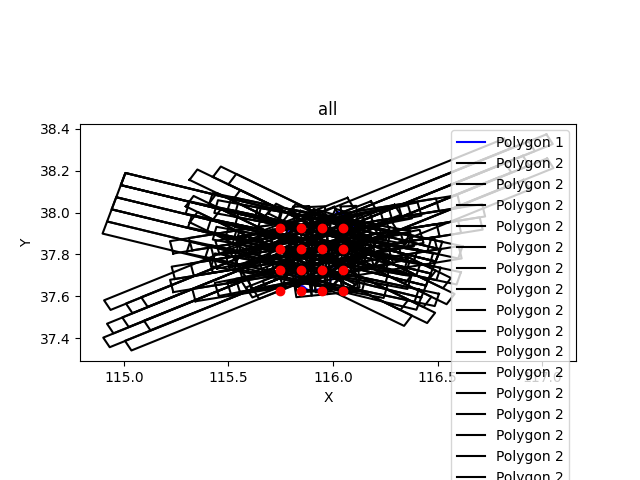
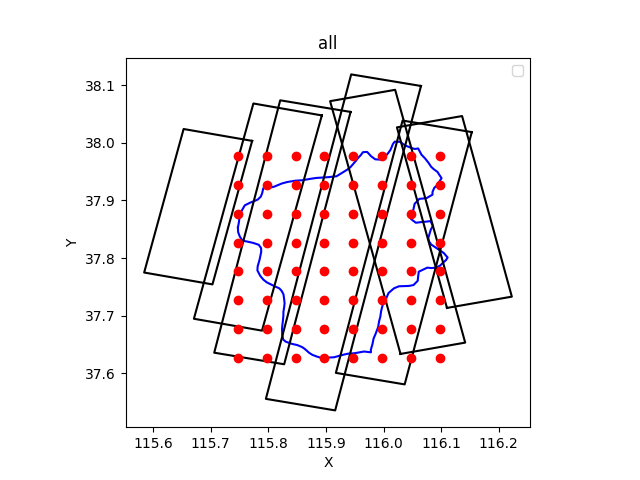
完成简单版本的区域拆分和任务选择

diff --git a/src/test/areaSplit.py b/src/test/areaSplit.py
@@ -7,6 +7,7 @@ import matplotlib.pyplot as plt
 from datetime import timedelta
 
 import gpkg_test
+import csv_test
 
 data_path = "../../data/"
 
@@ -29,13 +30,13 @@ def show_polygon_shape(polygon, name="Shapely Polygon"):
 def show_polygon_shape_2(polygon1, polygon2=None, point=None, name="Shapely Polygon"):
     x1, y1 = polygon1.exterior.xy
     plt.figure()
-    plt.plot(x1, y1, color='blue', label='Polygon 1')
+    plt.plot(x1, y1, color='blue')
 
     # 如果提供了第二个 Polygon，绘制它
     if polygon2 is not None:
         for i in polygon2:
             x2, y2 = i.exterior.xy
-            plt.plot(x2, y2, color='black', label='Polygon 2')
+            plt.plot(x2, y2, color='black')
 
     if point is not None:
         for i in point:
@@ -80,66 +81,143 @@ def seconds_to_time_str(seconds):
     return f"{hrs:02d}:{mins:02d}:{secs:02d}"
 
 
-def cmd_satellite_tools(satellite, area):
-    shape = area[3]
-    area_name = area[0]
-    # print(type(area[3]))
-    show_polygon_shape(area[3], area[0])
+# 返回前一个是否小于后一个
+def comp_sunlight(a, b):
+    aa = float(a)
+    bb = float(b)
+    return a < b
 
-    xx, yy = area[3].exterior.coords.xy
+
+# 在范围内返回true
+def comp_in_left_right_roll(a, left, right) -> bool:
+    aa = float(a)
+    ll = float(left)
+    rr = float(right)
+    return ll <= aa <= rr
+
+
+def cmd_satellite_tools_m3(m3json):
+    # print(m3json)
+    with open("./input/m3001.json", 'w') as f:
+        json.dump(m3json, f, indent=1)
+    command = "sattools.exe run -i m3001.json -m 3"
+    # 执行command命令
+    result = subprocess.run(command, shell=True, check=True)
+
+
+def cmd_satellite_tools(satellite, area):
+    area_shape = area[3]
+    area_name = area[0]
+
+    # show_polygon_shape(area_shape, area_name)
+
+    xx, yy = area_shape.exterior.coords.xy
     x, y = xx.tolist(), yy.tolist()
     x_left, x_right = min(x), max(x)
     y_button, y_top = min(y), max(y)
-    print(x_left, x_right, y_top, y_button)
-    dx, dy = 0.1, 0.1
+    # print(x_left, x_right, y_top, y_button)
+    dx, dy = 0.05, 0.05
     # [Point(longitude , latitudes) ]
     point_list = [shapely.Point(min(x_left + dx * i, x_right), min(y_button + dy * j, y_top))
                   for i in range(math.ceil((x_right - x_left) / dx))
                   for j in range(math.ceil((y_top - y_button) / dy))]
 
-    # print(point_list)
-    # print(len(point_list))
-    show_polygon_with_point(area[3], point_list, area[0] + ' with point')
+    # show_polygon_with_point(area_shape, point_list, area[0] + ' with point')
+    # 调用计算工具模式2
     m2json = dict()
     m2json['point_longitudes'] = []
     m2json['point_latitudes'] = []
 
-    # m3json = dict()
-    # m3json['satellite_id'] = "1"
-    # m3json['start_time'] = ""
-    # m3json['end_time'] = ""
-    # m3json['roll_angle'] = 0
+    # 调用计算工具模式3
+    m3json = dict()
+    m3json['satellite_id'] = "1"
+    m3json['start_time'] = ""
+    m3json['end_time'] = ""
+    m3json['roll_angle'] = 0
 
     for i in point_list:
-        if i.within(area[3]):
+        if i.within(area_shape):
             # 当前点位于多边形内部
             m2json['point_longitudes'].append(i.x)
             m2json['point_latitudes'].append(i.y)
             pass
-
+    satellite_data, mp_name2id = csv_test.get_satellite_csv()
     GeoDataFrames = []
     cur_path = os.getcwd()
     os.chdir("../../")
     flag = False
     for i in satellite:
+        getSatellite = gpkg_test.get_satellite_gpkg(i, './data/satellite')
+
         m2json['satellite_id'] = i
-        # m3json['satellite_id'] = i
+        m3json['satellite_id'] = i
         set_name = "set001"
-        print()
         if os.path.exists("./output/" + set_name + "_" + area_name + "_" + i + ".gpkg"):
             flag = True
-            tmp_list = []
             tmp_time_list = []
             getGeoDataFrame = gpkg_test.get_output_gpkg(set_name + "_" + area_name + "_" + i, "./output")
+            getGeoDataFrame = getGeoDataFrame.sort_values(by='time')
+            left = right = -1
+            roll_angle_ = 0
+            roll_angle_cnt = 0
             for idx in range(len(getGeoDataFrame)):
-                GeoDataFrames.append(getGeoDataFrame.iloc[idx].geometry)
-                tmp_time_list.append([getGeoDataFrame.iloc[idx].time, getGeoDataFrame.iloc[idx].roll_angle,
-                                      getGeoDataFrame.iloc[idx].sun_elevation_angle])
-                tmp_list.append(getGeoDataFrame.iloc[idx].geometry)
-            show_polygon_shape_2(area[3], tmp_list, point_list, set_name + "_" + area_name + "_" + i)
-            print(set_name + "_" + area_name + "_" + i + ":")
-            for tmpTime in tmp_time_list:
-                print(tmpTime)
+                # 判断太阳高度角是否满足角度
+                # print(i, getSatellite.iloc[getGeoDataFrame.iloc[idx].time].sun_elevation_angle,
+                #       satellite_data.iloc[mp_name2id[i]].sunlight)
+                if comp_sunlight(getSatellite.iloc[getGeoDataFrame.iloc[idx].time].sun_elevation_angle,
+                                 satellite_data.iloc[mp_name2id[i]].sunlight):
+                    continue
+                # print(i, getGeoDataFrame.iloc[idx].roll_angle,
+                #       satellite_data.iloc[mp_name2id[i]].left_roll, satellite_data.iloc[mp_name2id[i]].right_roll)
+                # 判断侧摆角是否在范围内
+                if not comp_in_left_right_roll(getGeoDataFrame.iloc[idx].roll_angle,
+                                               satellite_data.iloc[mp_name2id[i]].left_roll,
+                                               satellite_data.iloc[mp_name2id[i]].right_roll):
+                    continue
+
+                # 查找连续的时间序列区间 设置时间序列
+                cur = int(getGeoDataFrame.iloc[idx].time)
+                if left == -1 and right == -1:
+                    left = right = cur
+
+                if cur >= right + 100:
+                    tmp_time_list.append([left, right, 1.0 * roll_angle_ / roll_angle_cnt])
+                    tmp_time_list.append([left, right, 1.0 * roll_angle_ / roll_angle_cnt - 1])
+                    tmp_time_list.append([left, right, 1.0 * roll_angle_ / roll_angle_cnt + 1])
+                    left = right = cur
+                    roll_angle_ = roll_angle_cnt = 1
+
+                roll_angle_ += getGeoDataFrame.iloc[idx].roll_angle
+                roll_angle_cnt += 1
+                right = cur
+
+            # 结束查找后可能仍存在方案
+            if left != right and left != -1:
+                tmp_time_list.append([left - 1, right + 1, 1.0 * roll_angle_ / roll_angle_cnt])
+                tmp_time_list.append([left, right, 1.0 * roll_angle_ / roll_angle_cnt - 1])
+                tmp_time_list.append([left, right, 1.0 * roll_angle_ / roll_angle_cnt + 1])
+
+            # 生成新的候选数据集
+            idx_use = 0
+            for time in tmp_time_list:
+                m3json['start_time'] = seconds_to_time_str(time[0])
+                m3json['end_time'] = seconds_to_time_str(time[1])
+                m3json['roll_angle'] = time[2]
+                cmd_satellite_tools_m3(m3json)
+                if os.path.exists("./output/m3001.gpkg"):
+                    getGeoDataFrame = gpkg_test.get_output_gpkg("m3001", "./output")
+                    if os.path.exists("./output/m3001.gpkg"):
+                        if not os.path.exists(
+                                "./output/m3" + set_name + "_" + area_name + "_" + i + "_" + str(idx_use) + ".gpkg"):
+                            os.rename("./output/m3001.gpkg",
+                                      "./output/m3" + set_name + "_" + area_name + "_" + i + "_" + str(
+                                          idx_use) + ".gpkg")
+                        idx_use += 1
+                    for idx in range(len(getGeoDataFrame)):
+                        GeoDataFrames.append(getGeoDataFrame.iloc[idx].geometry)
+                # 丢给m3生成新的图像
+                # GeoDataFrames.append(getGeoDataFrame.iloc[idx].geometry)
+
             continue
         if flag:
             continue
@@ -153,27 +231,6 @@ def cmd_satellite_tools(satellite, area):
             os.rename("./output/m2001.gpkg", "./output/" + set_name + "_" + area_name + "_" + i + ".gpkg")
             for idx in range(len(getGeoDataFrame)):
                 GeoDataFrames.append(getGeoDataFrame.iloc[idx].geometry)
-        # print(getGeoDataFrame.iloc[0].time)
-        # print(type(getGeoDataFrame.iloc[0].time))
-        # show_polygon_shape(getGeoDataFrame.iloc[idx].geometry, i + " in " + area[0] + " No" + str(idx + 1))
-        # # m3 test
-        # m3json['start_time'] = seconds_to_time_str(getGeoDataFrame.iloc[idx].time)
-        # m3json['end_time'] = seconds_to_time_str(int(getGeoDataFrame.iloc[idx].time) + 10)
-        # m3json['roll_angle'] = getGeoDataFrame.iloc[idx].roll_angle
-        # print(m3json)
-        # with open("./input/m3001.json", 'w') as f:
-        #     json.dump(m3json, f, indent=1)
-        # command = "sattools.exe run -i m3001.json -m 3"
-        # result = subprocess.run(command, shell=True, check=True)
-        # getGeoDataFrame1 = gpkg_test.get_output_gpkg("m3001", "./output")
-        # show_polygon_shape(getGeoDataFrame1.iloc[0].geometry, "m3")
-        #
-        # show_polygon_shape_2(area[3], [getGeoDataFrame.iloc[idx].geometry, getGeoDataFrame1.iloc[idx].geometry], point_list, "all")
-
-        # for idx in range(len(getGeoDataFrame)):
-        #     show_polygon_shape(getGeoDataFrame.iloc[idx].geometry, i + " in " + area[0] + " No" + str(idx+1))
-
-        # print(getGeoDataFrame.head(5))
 
     os.chdir(cur_path)
     show_polygon_shape_2(area[3], GeoDataFrames, point_list, "all")
@@ -206,7 +263,7 @@ def cmd_satellite_tools(satellite, area):
         select_geos_idx[select_idx] = 1
         select_geos.append(select_geo)
 
-        if area_res.area < min_area:
+        if area_res.area < 0.01:
             break
 
         pass

diff --git a/src/test/csv_test.py b/src/test/csv_test.py
@@ -1,7 +1,12 @@
 import pandas as pd
-import os
 
 csv_path = '../../'
 
-if __name__ == '__main__':
-    pass
+
+def get_satellite_csv(path="../../data/satellite/"):
+    satellite_csv_name = "satellite.csv"
+    data = pd.read_csv(path + satellite_csv_name)
+    mp = dict()
+    for idx, row in data.iterrows():
+        mp[row['satellite_id']] = idx
+    return data, mp

diff --git a/src/test/main.py b/src/test/main.py
@@ -24,7 +24,7 @@ if __name__ == '__main__':
     areaSplit.cmd_satellite_tools(json_dict['satellite_id'], area_select)
 
     # 生成m1001.json 通过计算工具计算条带状
-    output_m1001 = gpkg_test.get_output_gpkg("m1001")
+
     # print(output_m1001)
     # for i in output_m1001:
     #     print(i)

diff --git a/src/test/gpkg_test.py b/src/test/gpkg_test.py
@@ -13,6 +13,7 @@ def get_output_gpkg(mission, path="../../output"):
 
     return out_gpkg_data
 
+
 def get_satellite_gpkg(satellite, path="../../data/satellite"):
     satellite_gpkg_data = gpd.read_file(path + '/' + satellite + '.gpkg')
 
